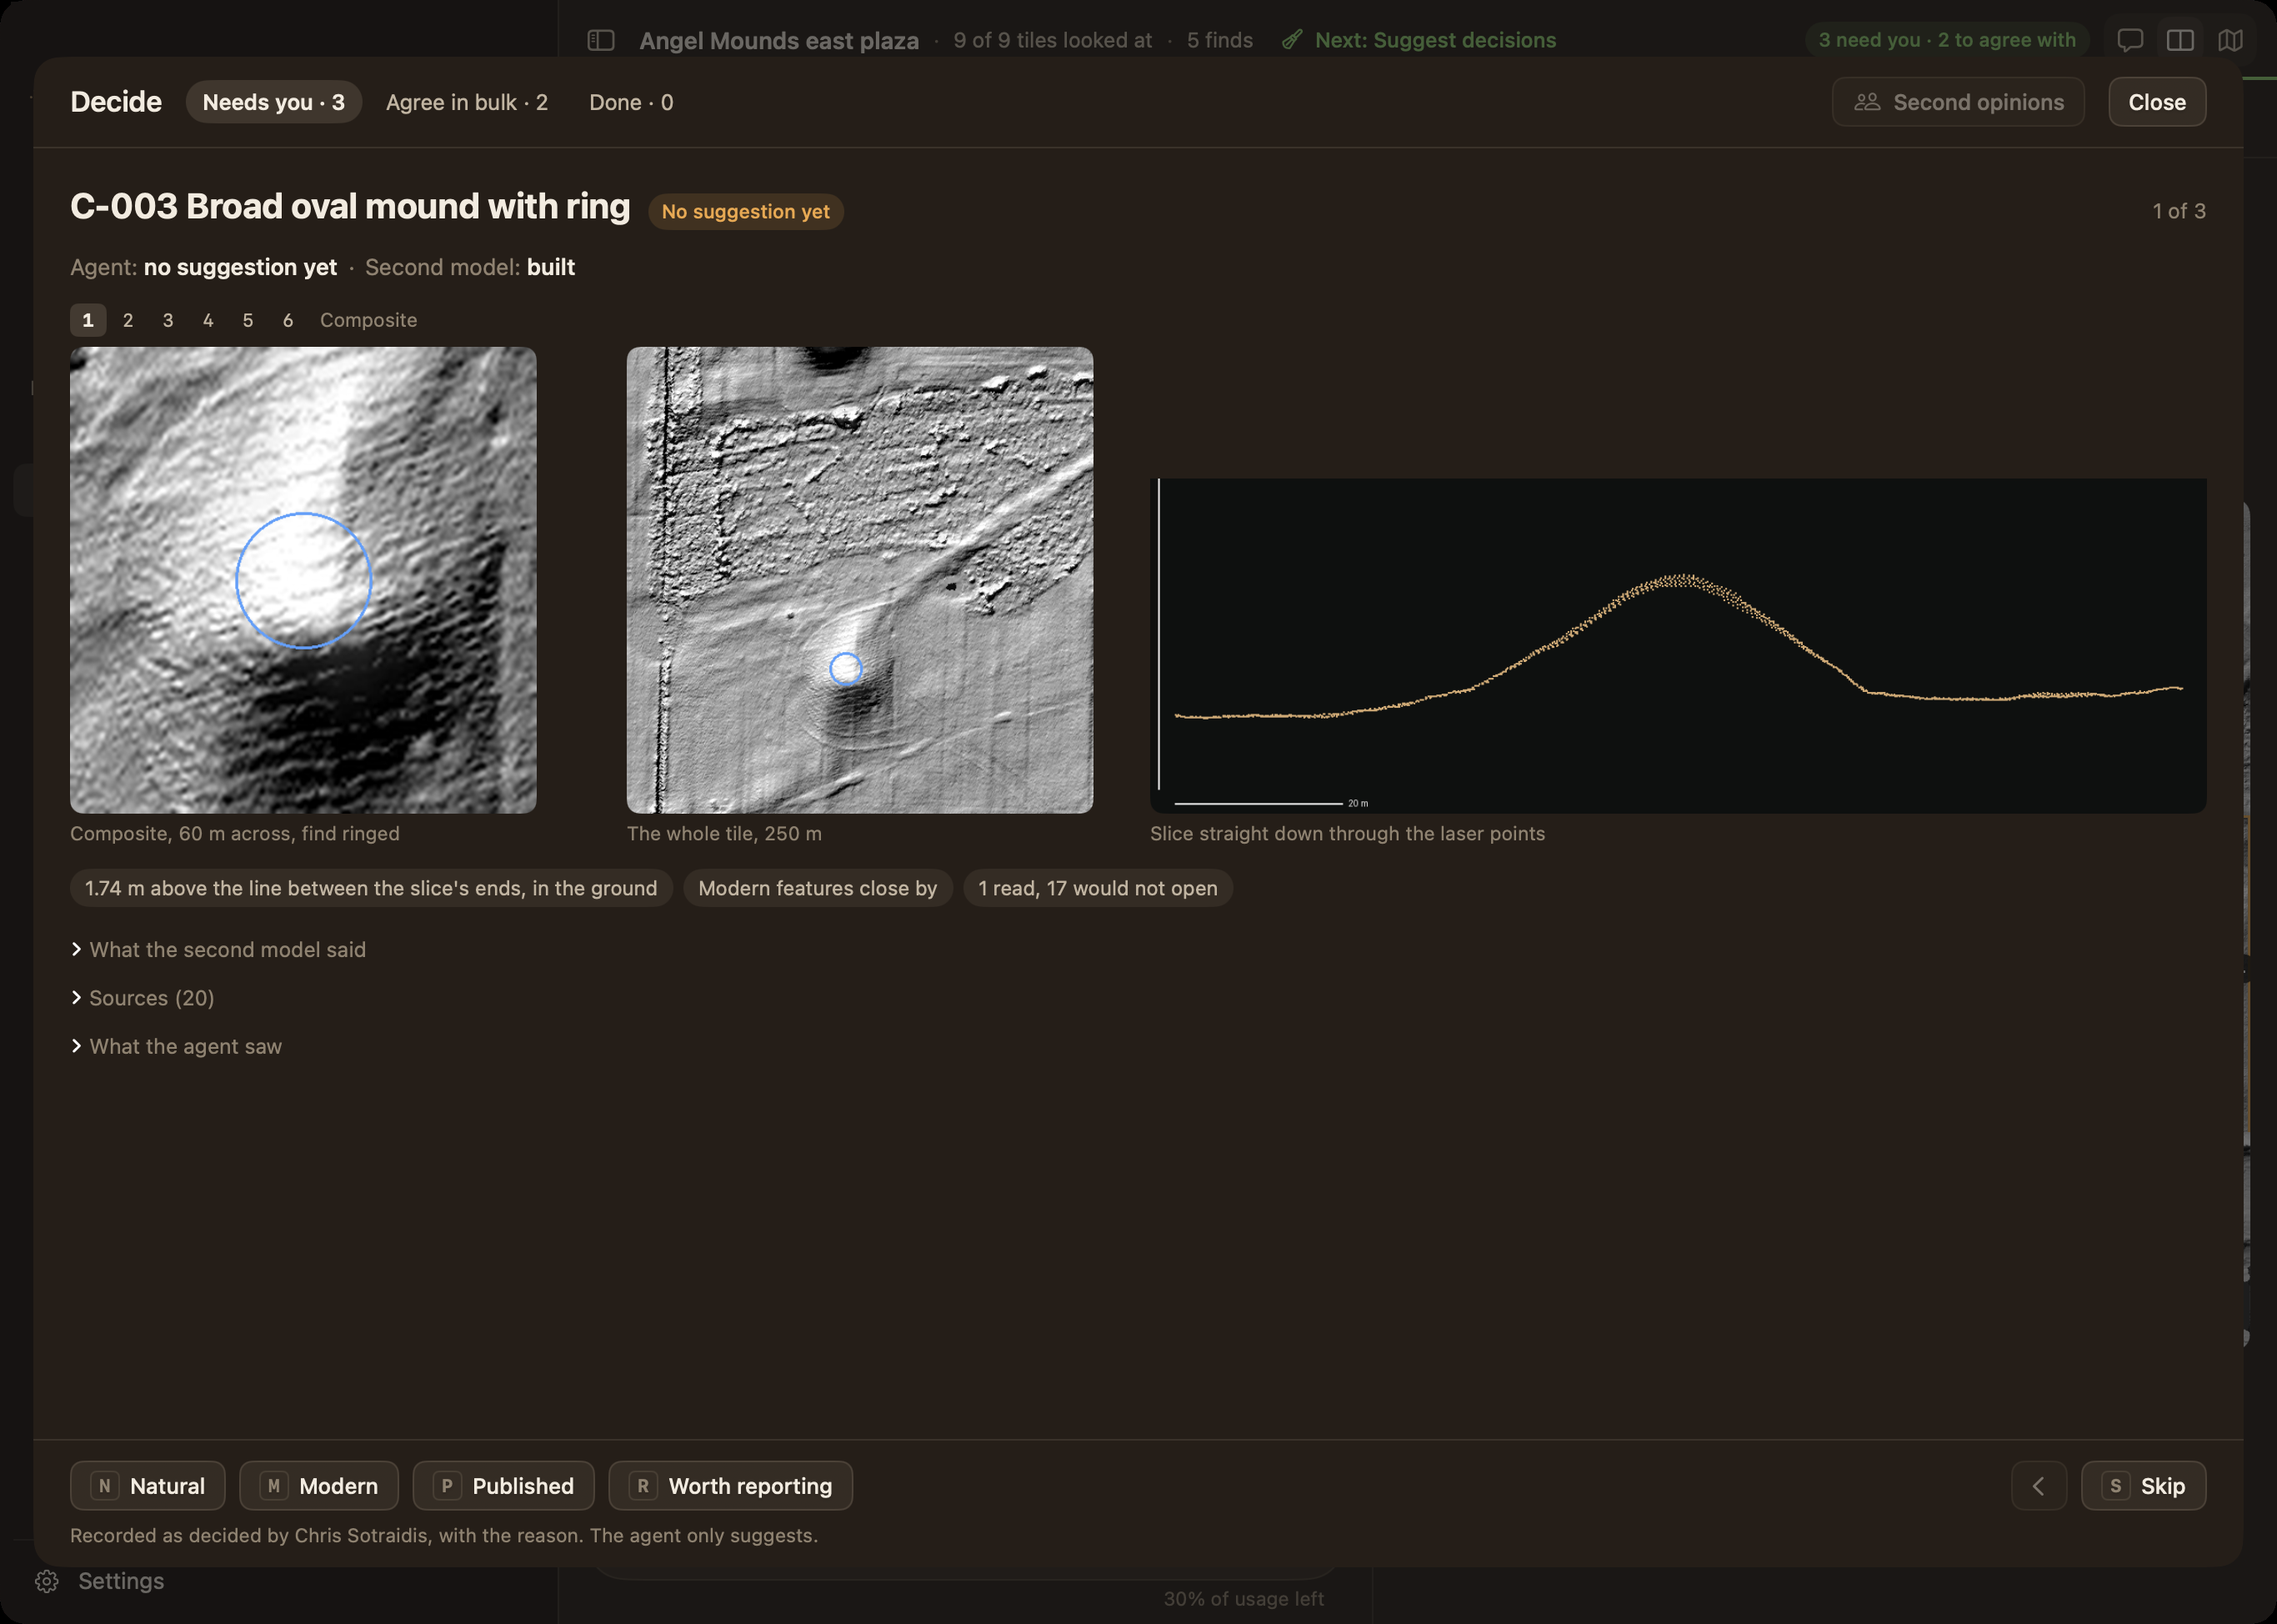
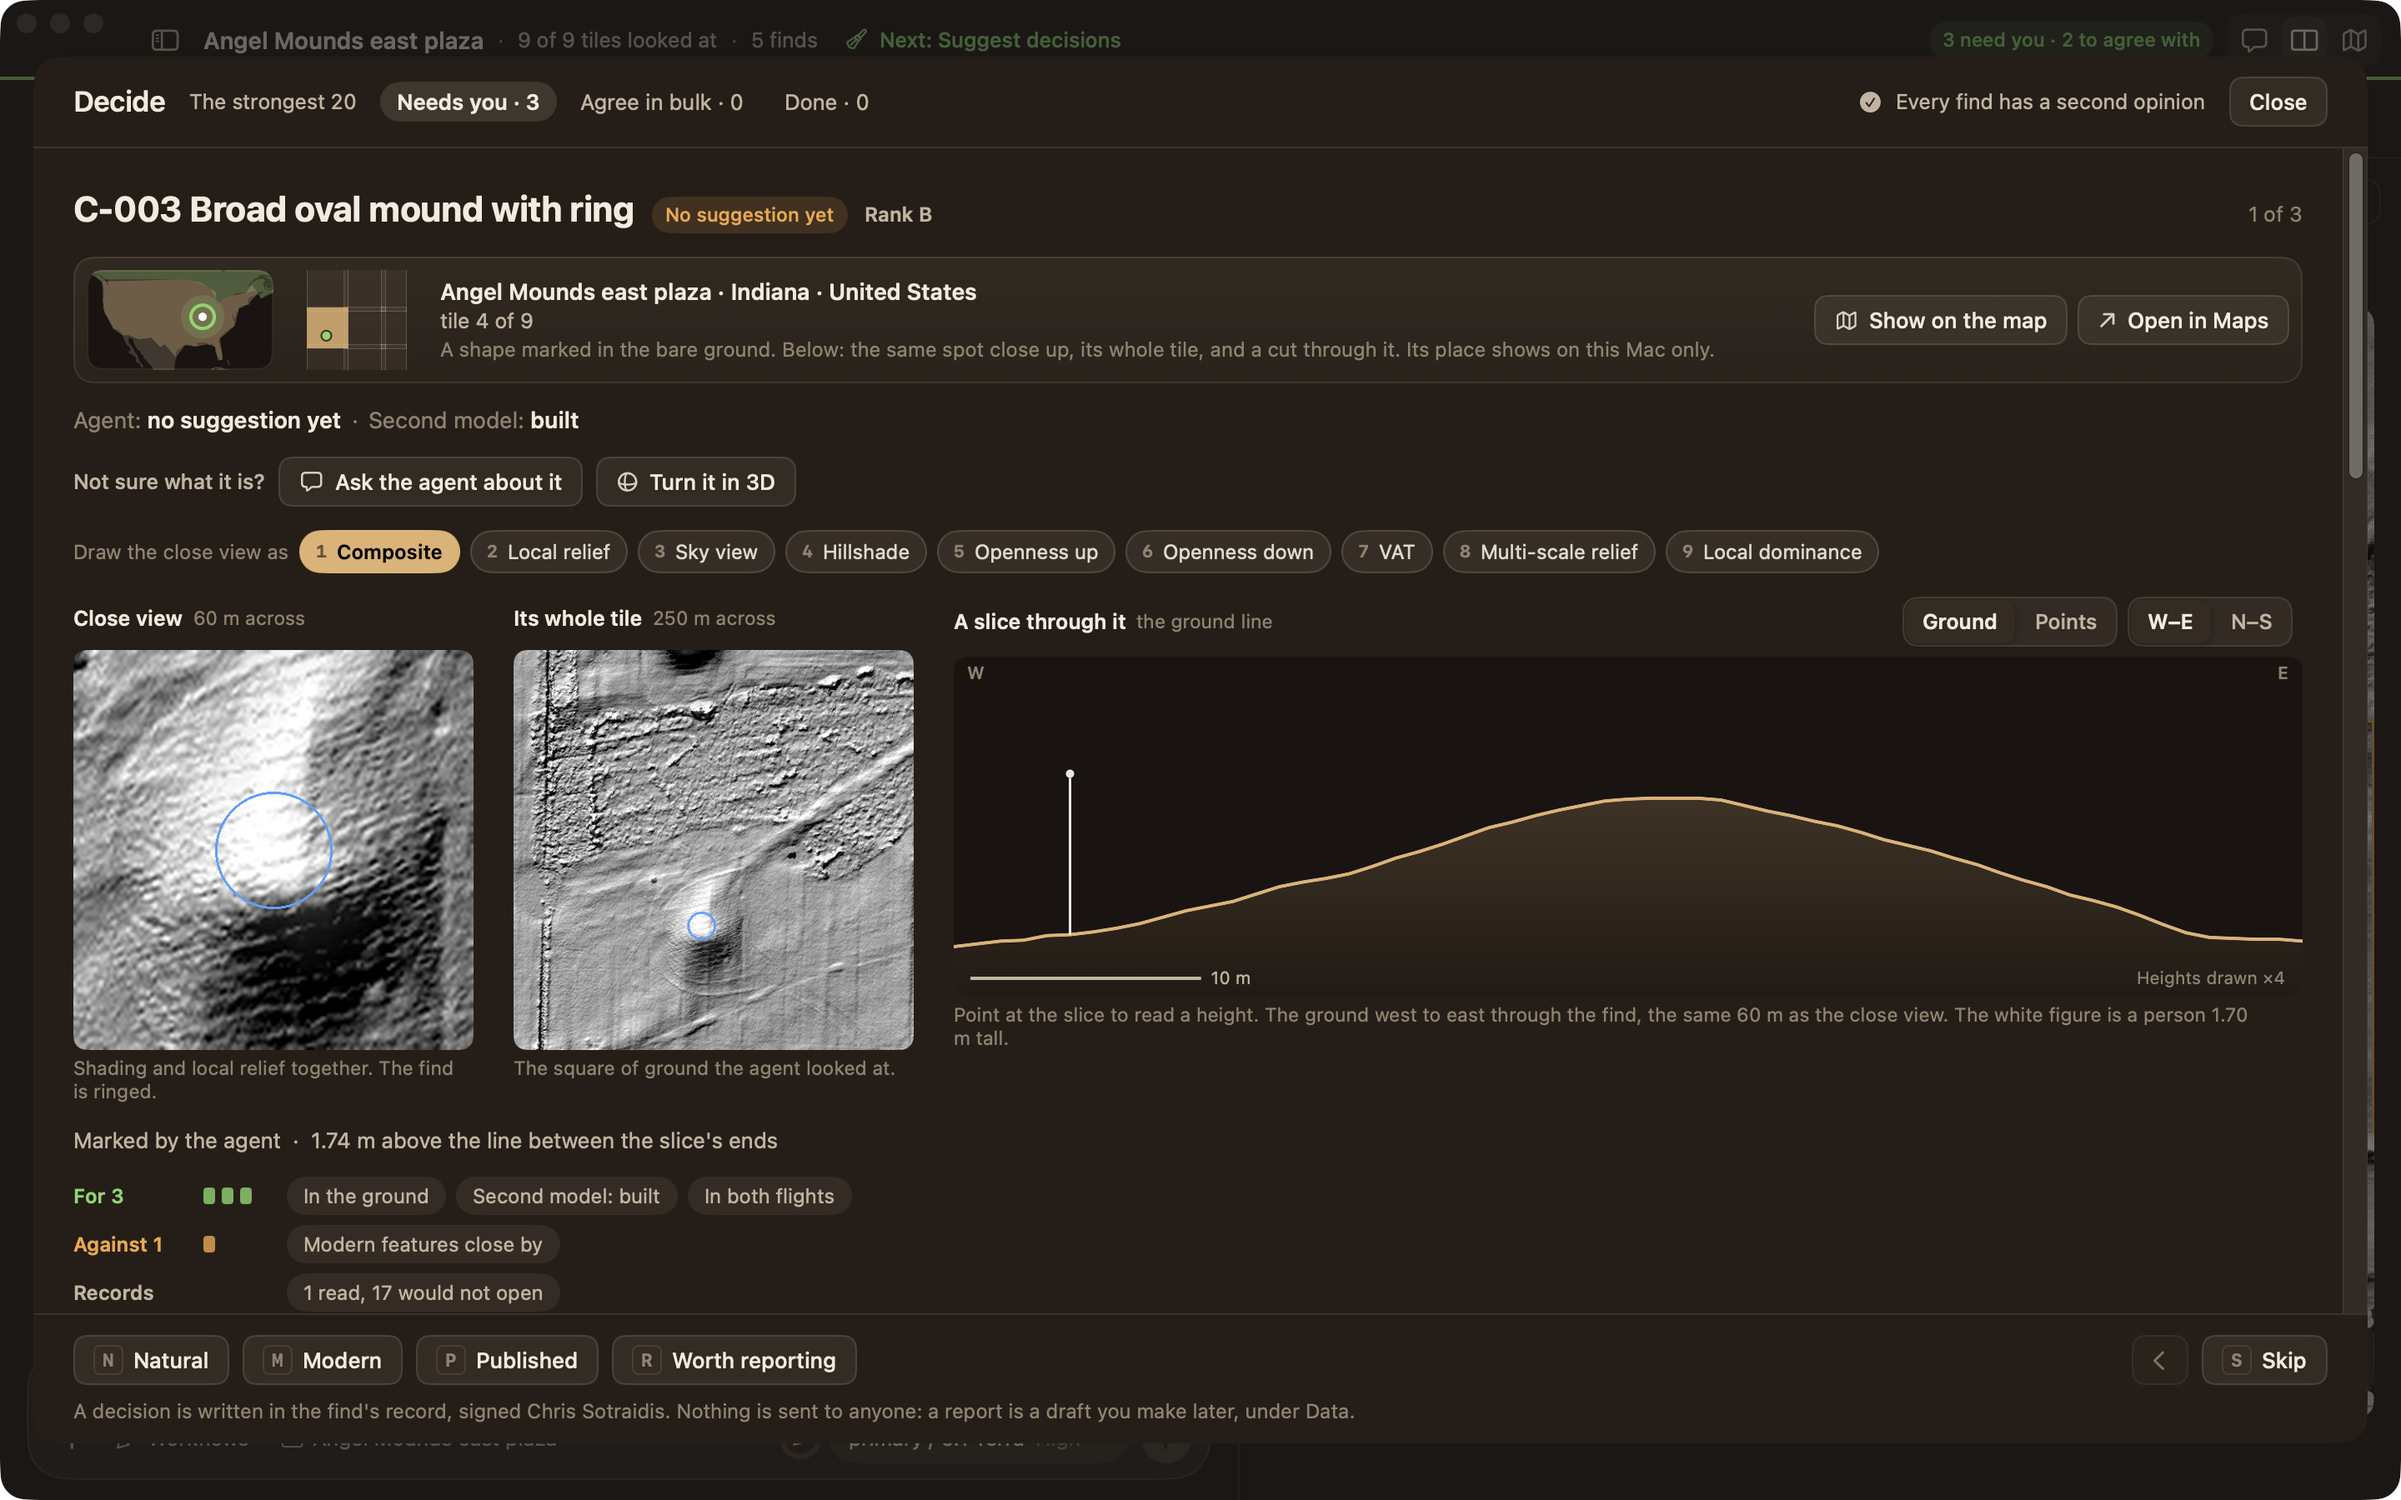
The README shows Home, Decide and a project as they are now (#3)
The README's pictures of Home, Decide and a project now show the app as it is in 0.2.1. They come from an empty home folder and from a copy of the Angel Mounds project, a published site.

HANDOFF says the public repository was made anew, and where the earlier pull requests are.

diff --git a/README.md b/README.md
@@ -30,7 +30,7 @@
   <a href="#for-developers">Developers</a>
 </p>
 
-![Angel Mounds, Indiana, opened in Dighouse: the project page says what happens next and lists the search so far; five finds are marked on the bare-ground map](docs/images/angel-mounds-run.png)
+![Angel Mounds, Indiana, opened in Dighouse: the project page says where the ground is and what happens next, and shows the four strongest finds; five finds are marked on the bare-ground map](docs/images/angel-mounds-run.png)
 
 <sub>A search at Angel Mounds, Indiana, from open USGS lidar: 9 tiles looked at, 5 finds marked, each one sliced, given a second model's opinion and searched in the literature.</sub>
 
@@ -110,8 +110,8 @@ These live in the tools, so they hold whichever model is running.
 
 <table>
   <tr>
-    <td width="50%"><img src="docs/images/home.png" alt="Home on a first visit: the headline beside a slider that takes the trees off Serpent Mound, Find something, the message box, Start your first project, and How it works in three steps"><br><sub><b>Home.</b> <b>Find something</b> sets the agent searching on its own, and known sites to try are one press away.</sub></td>
-    <td width="50%"><img src="docs/images/decide.png" alt="Decide at Angel Mounds: one find with a close view 60 m across, the whole tile and a slice through the laser points, its measurements, and keys for Natural, Modern, Published and Worth reporting"><br><sub><b>Decide.</b> One find at a time: a close view, the whole tile and a slice through the laser points. A key records your decision and your reason.</sub></td>
+    <td width="50%"><img src="docs/images/home.png" alt="Home on a first visit: the headline beside a slider that takes the trees off Serpent Mound, Find something, the message box with its usage dial, Start your first project, and How it works in three steps"><br><sub><b>Home.</b> <b>Find something</b> sets the agent searching on its own, and known sites to try are one press away.</sub></td>
+    <td width="50%"><img src="docs/images/decide.png" alt="Decide at Angel Mounds: one find with where it is, a close view 60 m across in nine styles, the whole tile and a slice through the ground, the reasons for and against, and keys for Natural, Modern, Published and Worth reporting"><br><sub><b>Decide.</b> One find at a time: where it is, a close view, the whole tile and a slice through the ground, with the reasons for and against. A key records your decision and your reason.</sub></td>
   </tr>
   <tr>
     <td width="50%"><img src="docs/images/record.png" alt="A find's record at Angel Mounds beside the project page: its relief, its slice, what the agent suggests, the evidence and each check, with Location kept on this Mac at the top"><br><sub><b>A record.</b> Each find with its relief, its slice and every check. Its location stays on your Mac.</sub></td>

diff --git a/docs/HANDOFF.md b/docs/HANDOFF.md
@@ -250,6 +250,7 @@ The full list, with reasons, is the first four sections of [ROADMAP.md](ROADMAP.
 - **Delete the test repository** `chrissotraidis/default-folder-check` (private), made to check publishing.
 - **The promotional video** is 65 seconds, made from real app footage and 3D renders of open lidar. Everything it is built from, its music, and how to build it again are in [docs/promo](promo/README.md). Posting it is his decision.
 - **Public since 2026-11-26.** Chris opened the repository that day, and 0.2.1 is the first public release: a notarized and stapled disk image from app/scripts/release.sh, run with DIGHOUSE_NOTARY_PROFILE set to the keychain profile of the Developer ID team. A download opens without Open Anyway.
+- **The repository was made anew that day.** Two personal details had to leave the history, so the public repository holds the same 192 commits with those words replaced, and pull request numbers restart at 1. The earlier repository, with pull requests 1 to 174 and their branches, is private as dighouse-archive. A number in an older commit title, such as (#43), refers to it. In this checkout the earlier repository is the remote named archive.
 
 - **Use this build and say what is still rough.** Loop 5 answered his list item by item (the Log has a picture for each), but his eye has not been over the result.
 - **Second opinions** run on GPT-6 Luna on the ChatGPT account by default (EASE_LOOP E1), and wait while less than 20% of the account is left; Claude Sonnet 5.5 stays a choice, and GLM-5.3 and Kimi K3 are no longer asked on their own. Google models (Antigravity and Gemini by any route) no longer run through OpenCodex and are hidden from every model list (2026-11-21).
